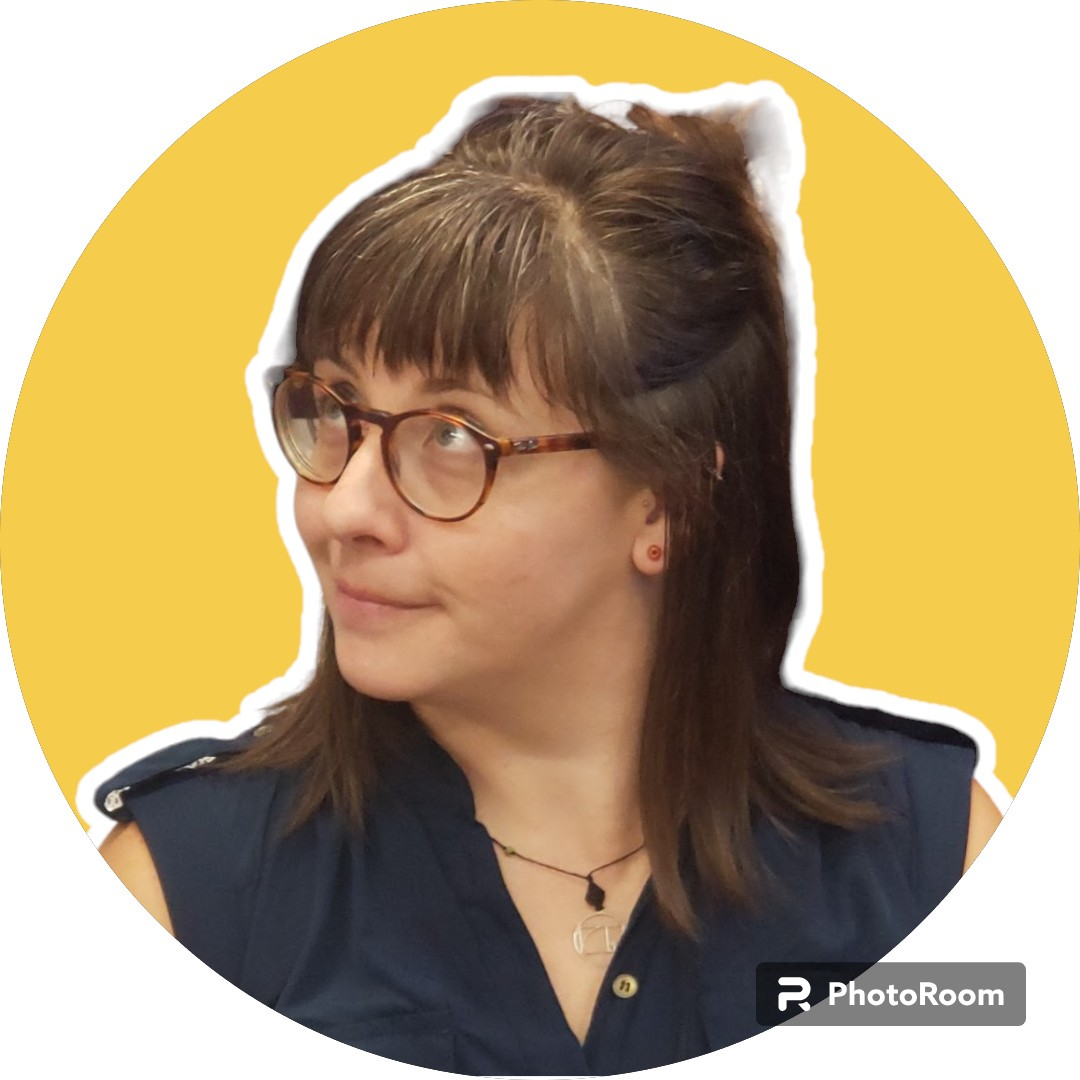
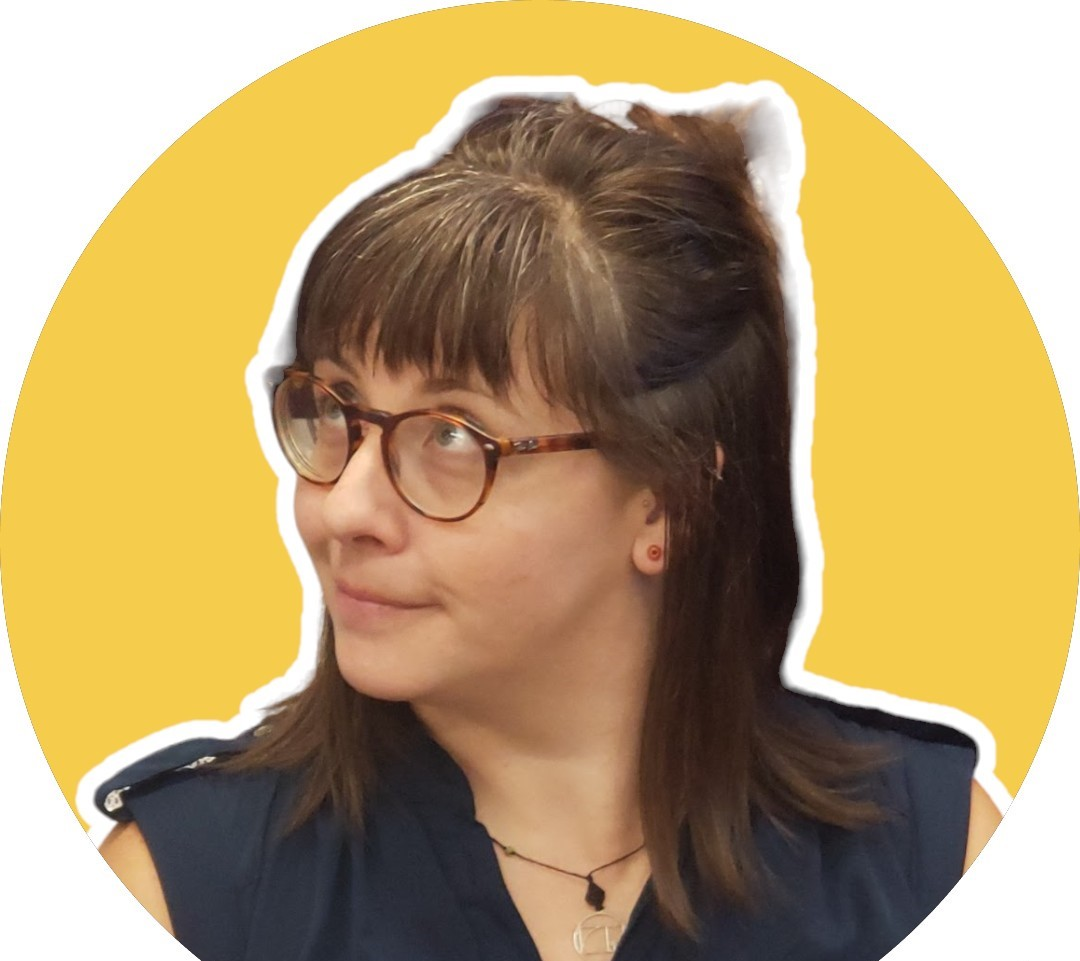
changed some gap and image sizes

diff --git a/index.html b/index.html
@@ -15,7 +15,7 @@
 
     <header class="header">
         <h1>Tisha Parry</h1>
-		<img src="assets\images\me-Photoroom.png">
+		<img src="assets\images\me-Photoroom.jpg">
 		<p>Open your eyes, it's Now</p>
 		<nav>
 			<ul>
@@ -47,15 +47,7 @@
 				</a>
 				<p>Setting up a business for online presence</p>
 			</article>
-
-			<article>
-				<h3>CSS Cheats</h3>
-				<a href="https://tishthegoat.github.io/css_snippets/">
-					<img src="assets/images/CSS_snippets.png">
-				</a>
-				<p>Coding to remember</p>
-			</article>
-
+			
 			<article>
 				<h3>Crochet Sales Marketing</h3>
 				<a href="https://instagram.com/threaded_goat">
@@ -63,18 +55,26 @@
 				</a>
 				<p>Instagram page for crochet business</p>
 			</article>
-        </section>
+			
+			<article>
+				<h3>CSS Cheats</h3>
+				<a href="https://tishthegoat.github.io/css_snippets/">
+					<img src="assets/images/CSS_snippets.png">
+				</a>
+				<p>Coding to remember</p>
+			</article>
+    </section>
 
-        <section class="contact">
+	<section class="contact">
             <h2>Contact Me</h2>
 			<ul>
 				<li><a href="https://github.com/tishthegoat">GH</a></li>
 				<li><a href="https://www.linkedin.com/in/tisha-parry-91301483">LI</a></li>
 				<li><a href="mailto:tishthegoat@gmail.com">EM</a></li>
 			</ul>
-        </section>
+    </section>
 
-    <    <footer class="footer">
+	<footer class="footer">
         <p>&copy; 2024 Tish's Portfolio. All rights reserved.</p>
     </footer>
     

diff --git a/assets/css/style.css b/assets/css/style.css
@@ -7,7 +7,7 @@
 	/* notworking */
 	display: grid;
 	grid-template-columns: repeat(3, 1fr);
-	gap: 8rem;
+	gap: 2rem;
 	grid-auto-rows: minmax(100px, auto);
   }
   .header {
@@ -25,28 +25,32 @@
   }
   .pets {
 	display: flex;
-	width: 25%;
-	grid-column: 3/4;
-	grid-row: 2;
+	flex-direction: row;
 	flex-wrap: wrap;
+	width: 100%;
+	grid-column: 3/4;
+	grid-row: 2/3;
   }
   
   .works {
 	grid-column: 1/3;
-	grid-row: 3;
+	grid-row: 3/4;
 	display:flex;
 	flex-direction: row;
 	flex-wrap: wrap;
 	align-items: center;
+	gap: 1rem;
+	justify-content: center;
 }
 .contact {
 	grid-column: 3/4;
-	grid-row: 3;
+	grid-row: 3/4;
+	justify-content: center;
 }
 
 .footer {
 	grid-column: 1 /3;
-	grid-row: 4;
+	grid-row: 5;
 }
 
 
@@ -59,7 +63,7 @@ h1{
 }
 /* pic of me */
 .header img {
-	width: 2rem;
+	width: 4rem;
 	height: auto;
 	position: absolute;
 	left: 20%;
@@ -90,14 +94,14 @@ h2{
 }
 
 .pets img {
-	max-width:3rem;
+	max-width:5em;
 	height: auto;
+	flex: 1 2em 50%;
 }
 
 
 h3{
 	font-size: 2rem;
-	text-;
 }
 
 article:first-child{
@@ -109,7 +113,7 @@ article img:first-child{
 }
 
 article {
-	flex:1;
+	flex: 0 .5rem 50%;
 }
 
 /* headers font*/
